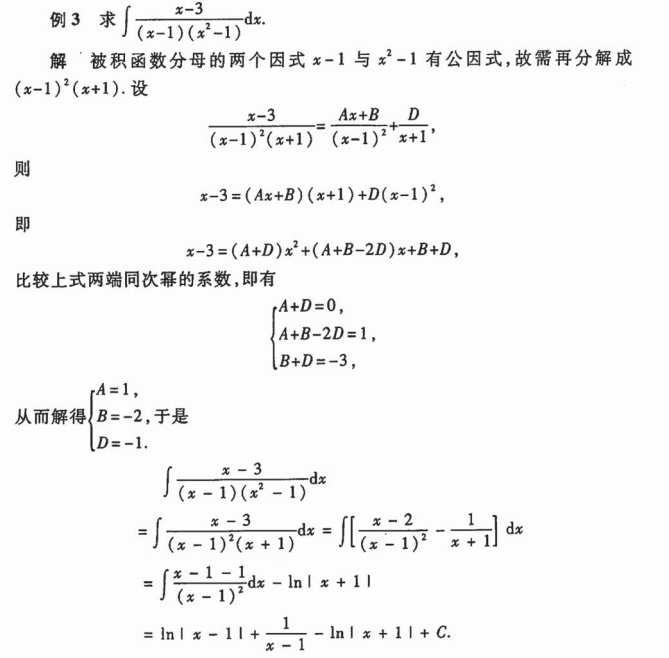
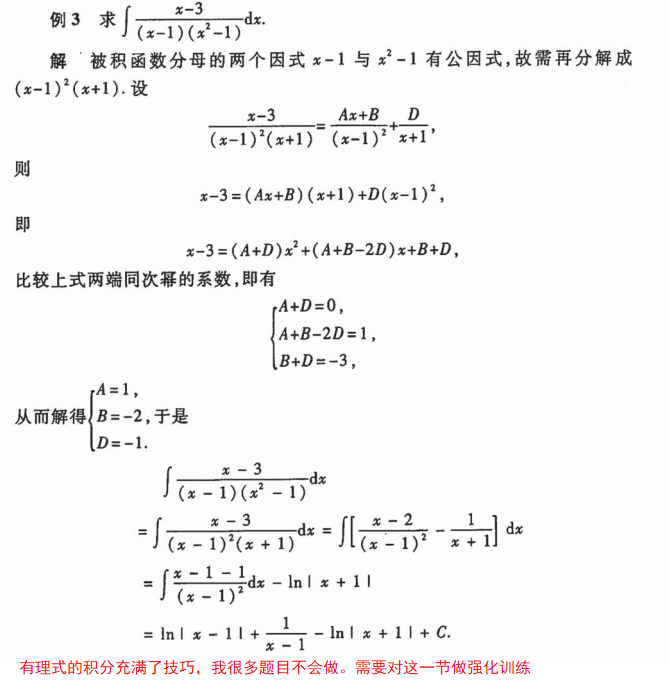
x

diff --git a/高数上册.md b/高数上册.md
@@ -318,6 +318,8 @@
 
 曲率越大，弯越急。
 
+![image-20240413163634840](img/image-20240413163634840.png)
+
 曲率圆和曲率半径：
 
 ![image-20240322140437836](img/image-20240322140437836.png)

diff --git a/错题本.md b/错题本.md
@@ -39,3 +39,7 @@
 ---------------------------
 
 ![image-20240408142229474](img/image-20240408142229474.png)
+
+---------------------------
+
+![image-20240414114327844](img/image-20240414114327844.png)
